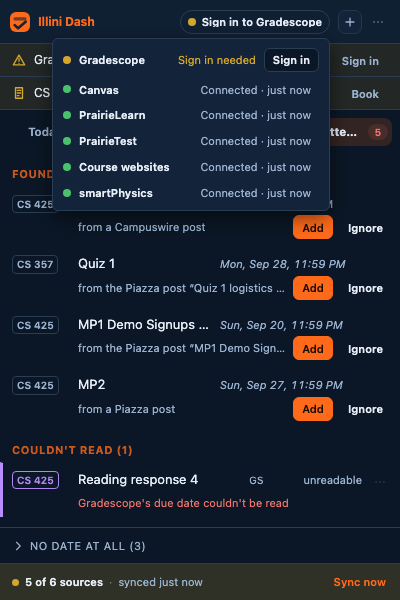
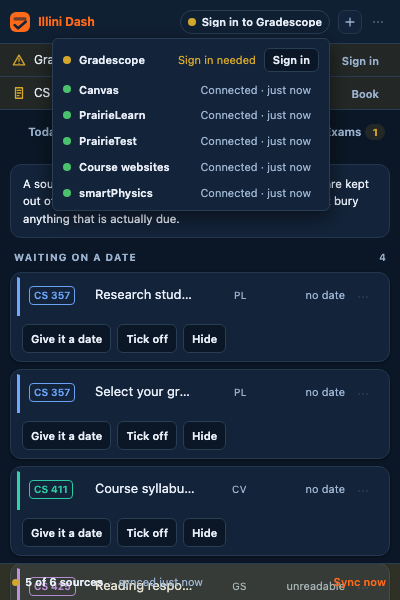
Wave 12 / W2 recorded, with the shots and the press that verify it
Captures for all three views in both modes, dark first; `popup-month` and
`popup-nodate` are new, `popup-attention` and `full-attention` are gone with
the tab. Measured on the real `dist/preview-popup.html`: html 400px,
body.scrollWidth 400, 0 elements past x=401, on month, No date and Exams, in
both modes.

The press that matters was driven through CDP rather than the preview pane:
another session was driving the same pane and its coordinates landed on a row
two hundred pixels below the cell, which read exactly like "tapping a day does
nothing" three times running (UI rule 6). With a real pointerdown/up on the
cell, the heading moves from "Sat, Sep 19 · 5 due" to "Tue, Sep 22 · 2 due"
and `aria-pressed` moves with it.

One rule added while reading the captures: a `.nodate-card`'s row is stripped
of fill and lift, so that when `renderRow` becomes a card in its own right the
tab does not draw a card inside a card. Inert today — `.row` has neither.

diff --git a/public/popup-views.css b/public/popup-views.css
@@ -157,6 +157,17 @@
 .nodate-stack { display: flex; flex-direction: column; gap: 7px; padding: 0 10px; }
 .nodate-card { padding: 4px 6px 8px; }
 /*
+ * The card is the row *and* its three buttons, so the row inside it must not be
+ * a second card.
+ *
+ * `renderRow` is being turned into a white card of its own (D7); mock 2c draws
+ * one card with the actions inside it, not a card within a card. Neutralised
+ * here rather than by asking rows.ts for a variant, because this is the only
+ * place that nests one — and only the fill and the lift are taken, so the tone
+ * edge (`.row-late`, `.row-overdue`) survives.
+ */
+.nodate-card > .row { background: none; box-shadow: none; }
+/*
  * The three answers, under the row they answer.
  *
  * `flex-wrap`, because "Give it a date" is the longest label on the tab and a

diff --git a/PROGRESS.md b/PROGRESS.md
@@ -7,6 +7,57 @@ Spec: SPEC.md. Build order §10, gates §9. Detailed evidence lives in `docs/`.
 **Steps 1–12 are done. G0–G3 have passed. G4 and G5 are Sushi's and cannot start
 from here.**
 
+## Wave 12 / W2: the month, the No date tab, and the exam board — 2026-09-19
+
+**2065 tests, unchanged — the suite does not import the popup.** Verified by
+`npm run typecheck`, `npm run build`, `npm run shots -- popup` (18 shots, dark first)
+and by measuring the real `dist/preview-popup.html` in headless Chrome.
+
+**Month (D6, mock 2a).** `renderMonthView` branches on `isFullView`; the full view's
+titled-pill grid is untouched. The popup draws `monthDots` — a 5px course-hue dot per
+deadline, `.45` when done, `MONTH_DOT_CAP` of them and a `+N` rather than a silent
+truncation — over a Sunday-first header taken from a known Sunday rather than a
+hand-written "S M T W T F S". Every cell is a `<button>` with `aria-pressed` and a
+title ("Tuesday, Sep 22 — 2 due"), because a dot says nothing to a screen reader.
+`dayList` names the tapped day underneath through `renderRow`, with **EOD** where §4.5
+invented the time (worker rule 3). The selection is module state — the minute tick and
+the open-sync must not snap it back to today — and is ignored when it falls outside the
+month shown, so the heading can never name a day the grid is not drawing. The month's
+name keeps its place in the date navigator and gains "Full view ↗" beside it.
+`FULL_VIEW_ONLY` is now **empty**: the month was in it because of the pills, which need
+~100px a cell, not because of the month.
+
+**No date (D3, mock 2c).** `views/nodate.ts`: the explainer card, one "Waiting on a
+date" head over both groups, and a card per row — `renderRow` for the body, three
+`.btn-sm` under it. **Give it a date** opens the editor through `app.openGiveDate`;
+**Tick off** and **Hide** go through `applyOverrideAction`, which owns "Applying…", the
+log line and the catch. "Couldn't read" rows carry the amber `check` chip on the
+actions line — not inside the row, which is `rows.ts`'s object — and both groups keep
+their `ATTENTION_NOTE` as the card's tooltip. Nothing is folded: the fold made sense
+when this group was burying two actionable ones, and none on a tab it is all of.
+
+**`views/attention.ts` is deleted.** `SUGGESTION_SOURCE` and `renderSuggestions` moved
+**verbatim** to `src/ui/popup/suggestions.ts` for the Needs-you screen; `ATTENTION_NOTE`
+keeps all three sentences, exported from `views/nodate.ts`, so the Overdue one is not
+written twice.
+
+**Exams**, restyled onto the card language with nothing removed: `h2.section` →
+`.section-head` with the count in its own span, rows stacked in `.exam-stack`, the empty
+sentence in a `.view-note` card. Inventory §M F104–F106 all preserved, including the
+stripped `"Book a slot: "` prefix, `examWhen`'s date-*and*-day and `.row-sat`.
+
+**Measured** on the real document, both modes, all three tabs: `html` 400px,
+`body.scrollWidth` 400, **0 elements past x=401**. A **real pointer press** on Sep 22 —
+CDP `Input.dispatchMouseEvent`, because a synthetic `.click()` proves nothing (UI rule
+5) — moved the heading from "Sat, Sep 19 · 5 due" to "Tue, Sep 22 · 2 due" and moved
+`aria-pressed`. The preview *pane* could not do it: another session was driving the same
+window and its coordinates landed two hundred pixels away, which is UI rule 6 exactly —
+three "the press does nothing" results were the pane, not the code.
+
+**Shots**: `popup-month` and `popup-nodate` added; `popup-attention` is gone, and the two
+entries still asking for `tab=attention` — which now falls back to `day` — were moved to
+`nodate` rather than left quietly capturing the wrong screen.
+
 ## Wave 12 / W0: popup.ts split, and the new shell — 2026-09-19
 
 **1970 tests, unchanged — the suite does not import the popup, so none of this is pinned
